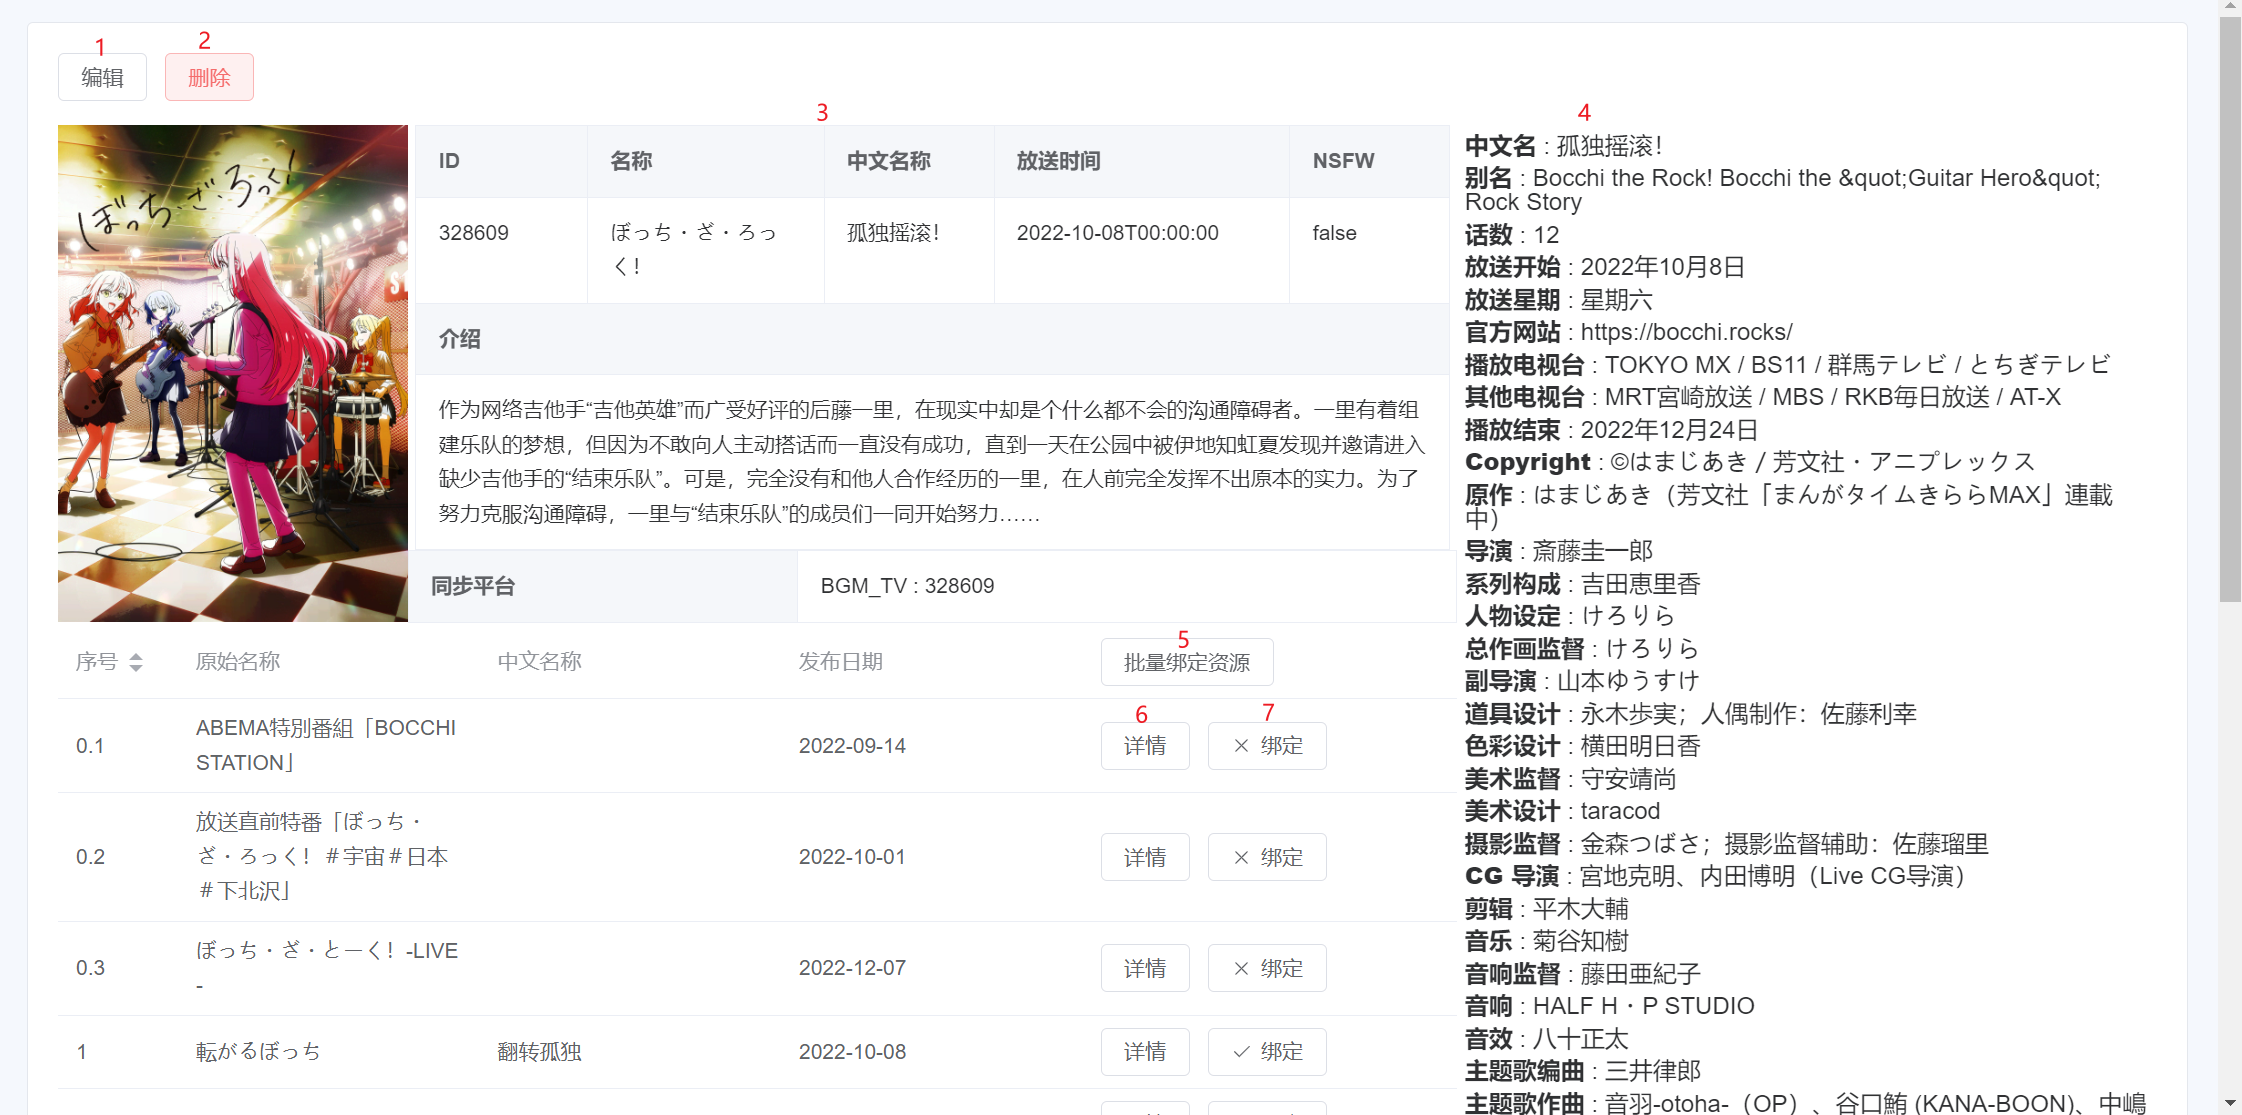
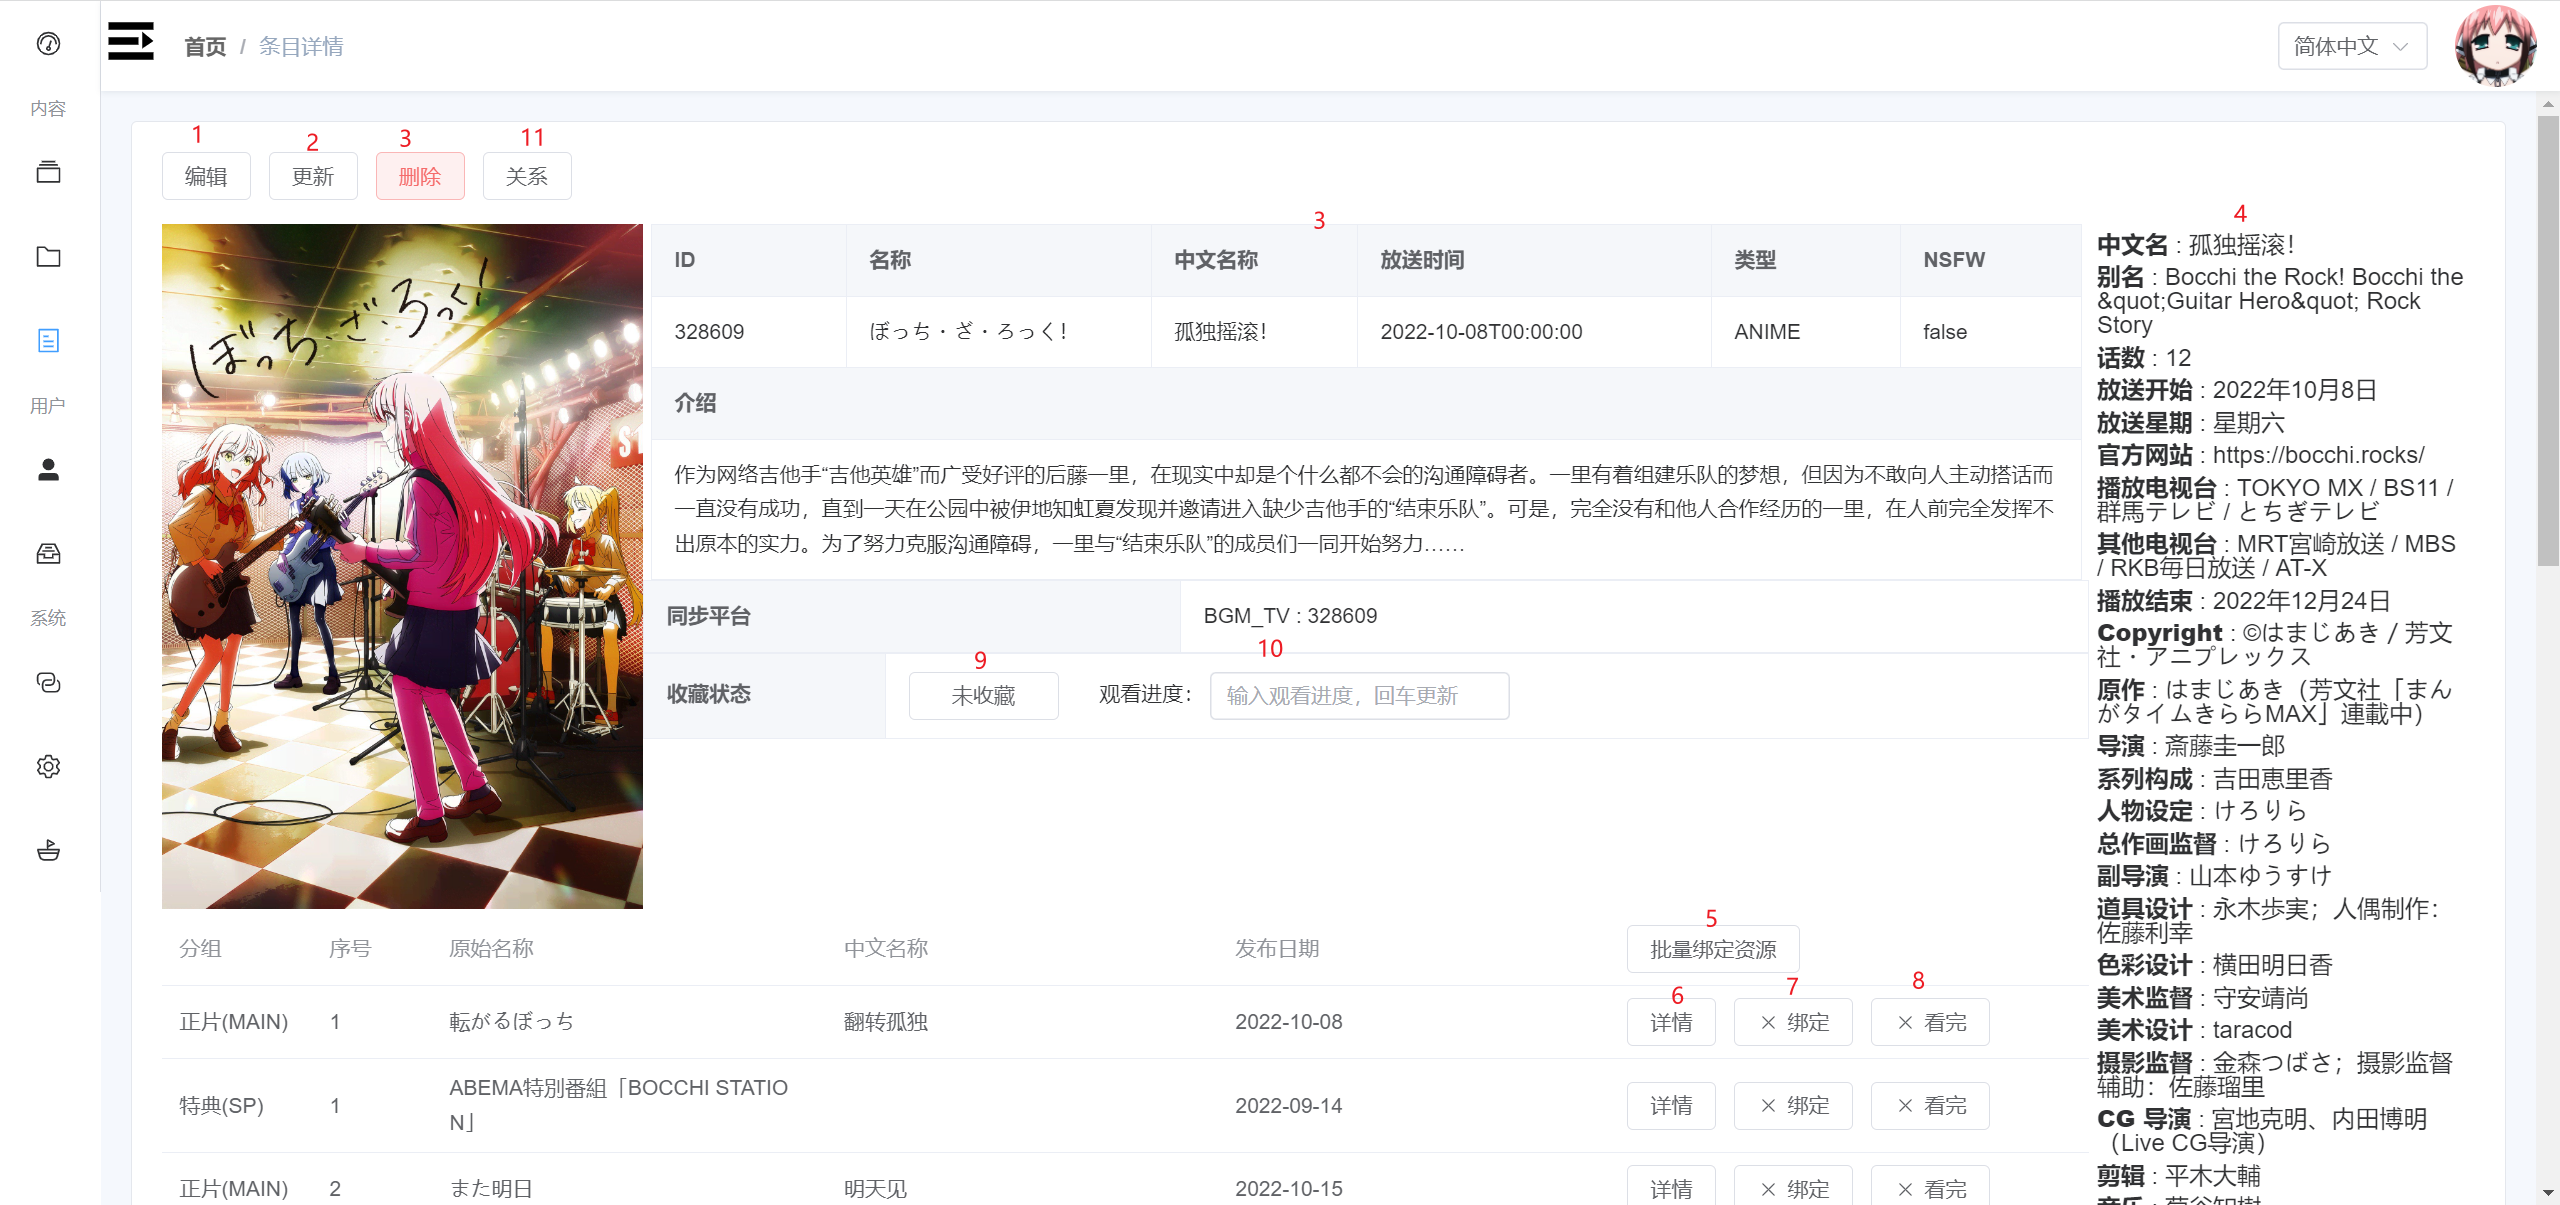
add some content in user guide subjects doc

diff --git a/docs/user-guide/subjects.md b/docs/user-guide/subjects.md
@@ -62,3 +62,28 @@ description: 条目管理相关功能说明
 - 5：点击打开文件多选弹框，确认后会和选中的文件进行批量匹配剧集序号，批量匹配的规则是：正则匹配 `XXX[08]XXXX.XXX` 和 `XXXX 08 XXXX.XXX`；
 - 6：点击打开文件剧集详情弹框，另外双击当前剧集行也可打开文件剧集详情弹框；
 - 7：点击打开文件单选框，进行单个剧集和资源的匹配，如果匹配后，按钮图标将更新为 勾；
+- 8：标记当前剧集已经看过
+- 9：收藏当前剧集，收藏后会出现在菜单栏`收藏`里
+- 10：更新番剧的剧集观看进度
+- 11：打开`番剧关联弹框`
+
+## 番剧关联弹框
+
+![Ikaros Console Subject Manager](/img/user-guide-subjects/Snipaste_2023-10-11_16-13-28.png)
+
+- 1：主条目信息
+- 2：新增条目关系按钮，点击打开`新增条目关系弹框`
+- 3：删除条目关系按钮，点击打开`删除条目关系弹框`
+- 4：相关条目展示
+- 5：相关条目卡片，点击可跳转至对象的条目详情页
+
+### 新增条目关系弹框
+
+![Ikaros Console Subject Manager](/img/user-guide-subjects/Snipaste_2023-10-11_16-19-33.png)
+
+- 1：主条目的ID，不可编辑
+- 2：相关天猫的ID数组，不可编辑
+- 3：选择框，选择主条目和相关条目的关系
+- 4：取消按钮，取消并关闭当前弹框
+- 5：关联按钮，提交新增相关条目
+- 6：打开`条目选择右抽屉`
